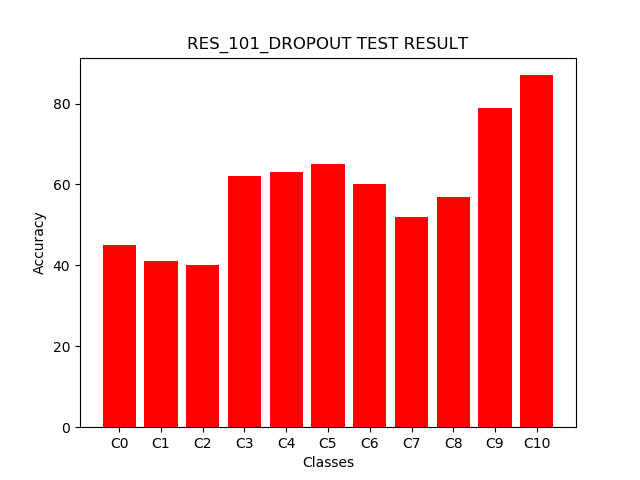
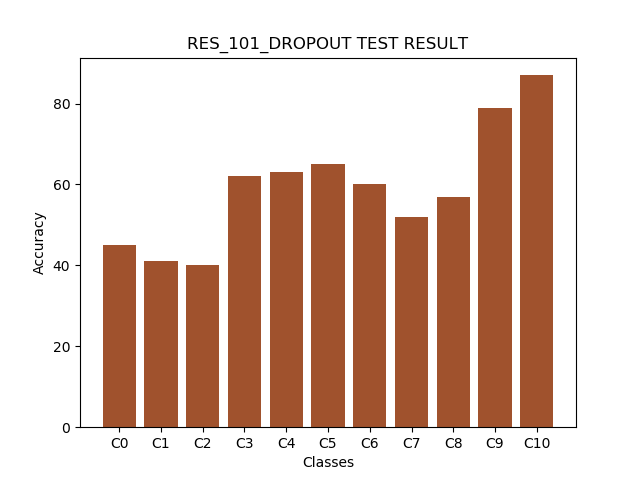
fix colors all charts

Changed region(s): [[0.1562, 0.1562, 0.875, 0.9062]]

diff --git a/commons/plot.py b/commons/plot.py
@@ -44,7 +44,8 @@ OUTPUT_RES_SE_101_VGG = "[IMG]Res101- Se101 - vgg"
 OUTPUT_RES_SE_50_VGG = "[IMG]se50 - res50 - vgg"
 OUTPUT_RES_SE_101_NODROPOUT = "[IMG]res101 - se 101 - nodropout"
 OUTPUT_ALL = "[IMG]All AVG LOSS OVER ITER"
-colors = ['red', 'gold', 'blue', 'pink', 'olive', 'brown', 'orchid', 'skyblue', 'crimson']
+# colors = ['red', 'gold', 'blue', 'pink', 'olive', 'brown', 'orchid', 'skyblue', 'crimson']
+colors = ['sienna', 'steelblue', 'seagreen', 'khaki', 'darkolivegreen', 'brown', 'slategrey', 'skyblue', 'crimson']
 class Plot_G():
 	def __init__(self):
 		pass
